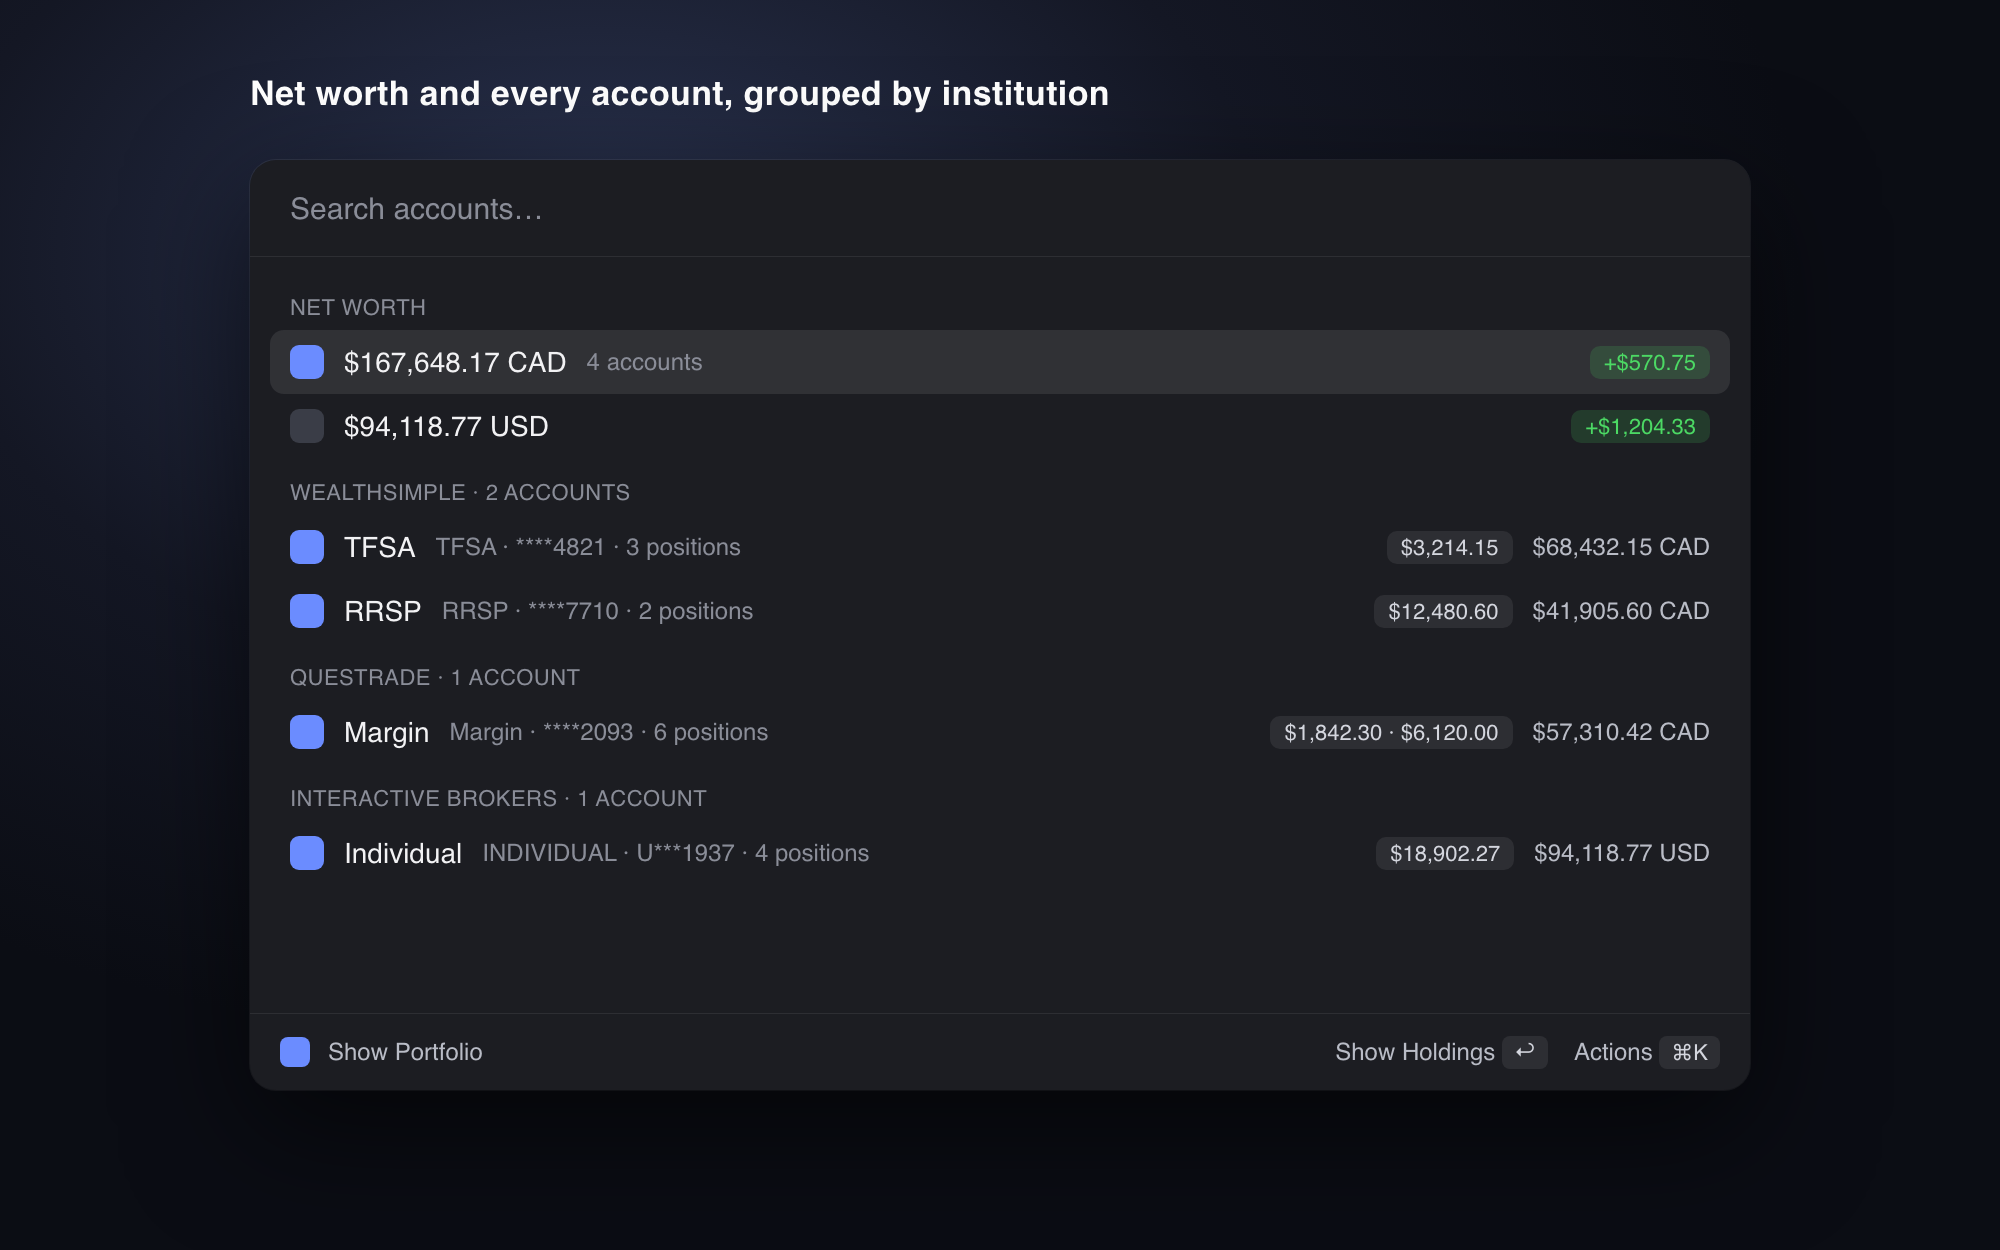
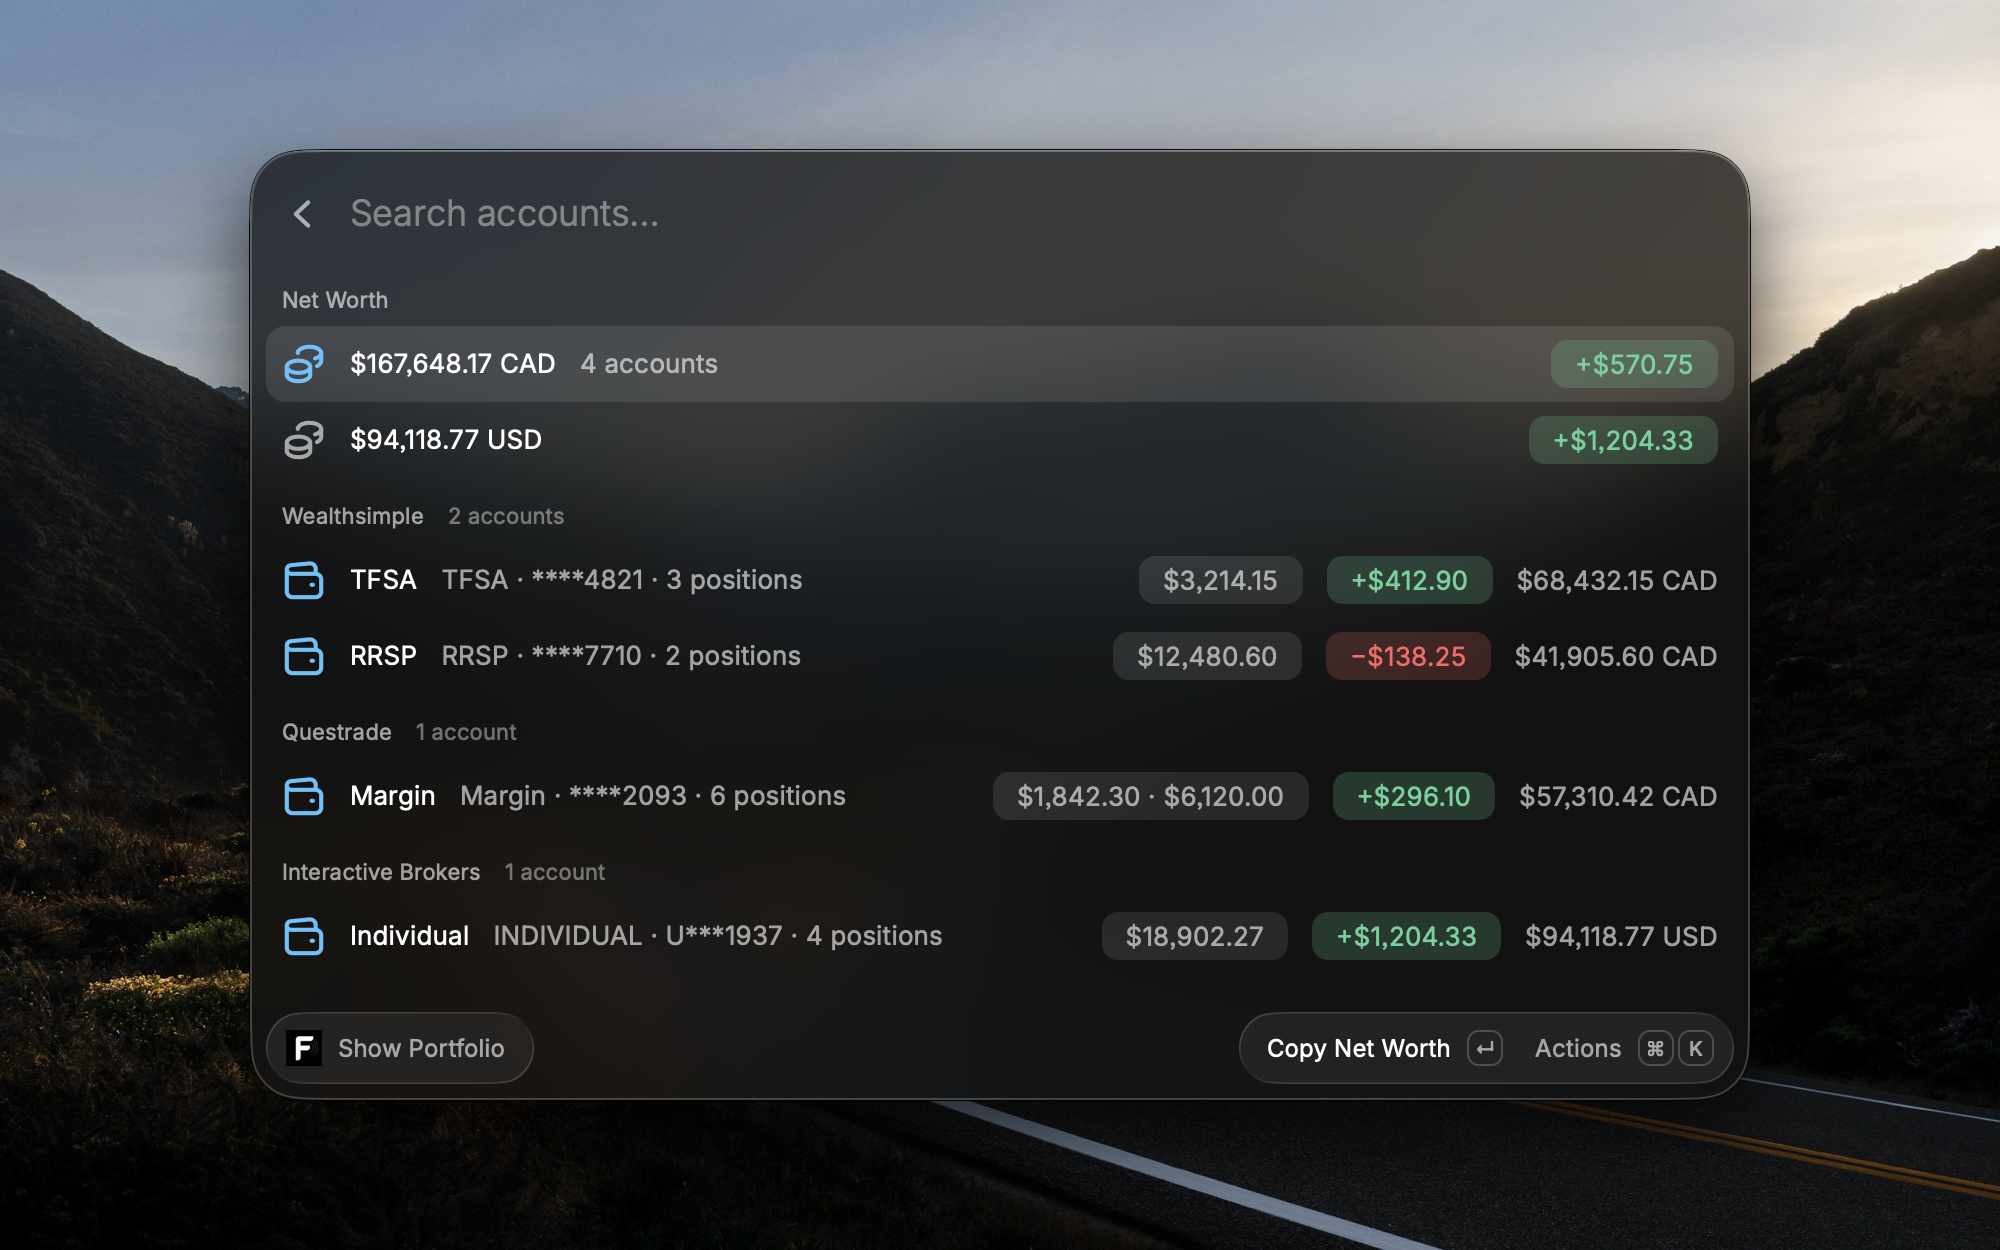
Store screenshots: real Raycast Window Capture shots in demo mode; drop the mock-up generator

diff --git a/extension/README.md b/extension/README.md
@@ -51,7 +51,7 @@ SnapTrade dashboard OAuth apps are confidential clients: the token, refresh and 
 
 Local development: `npm install`, `npm run dev`. `npm test` runs the pure portfolio math against the fixtures.
 
-Screenshots: the three images in `metadata/` are rendered from the fixtures by `node scripts/screenshots.mjs` (headless Chrome, 2000×1250) so they contain no real balances. Before a Store submission, replace them with real captures from Raycast's *Window Capture* command with demo mode on.
+Screenshots: the three images in `metadata/` are Raycast Window Capture shots taken in demo mode, so they contain no real balances.
 
 ## Security notes
 
